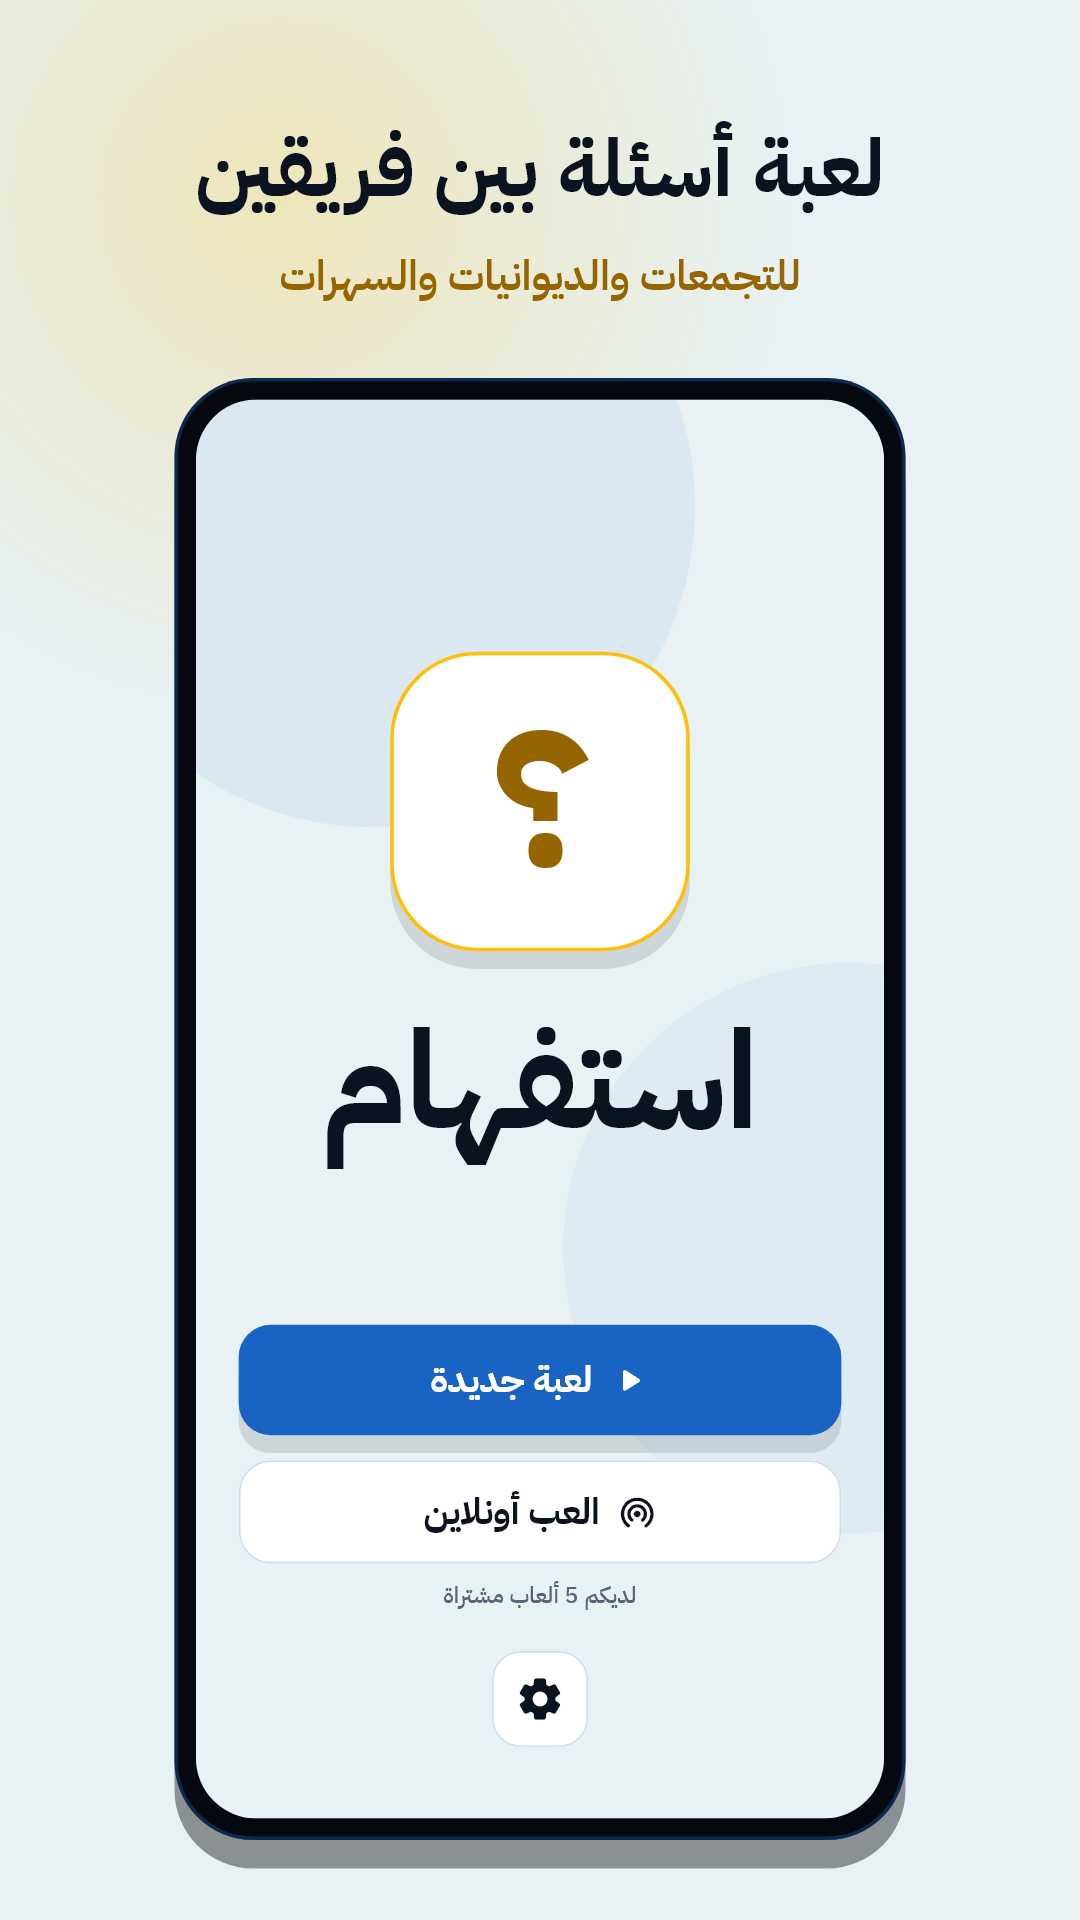
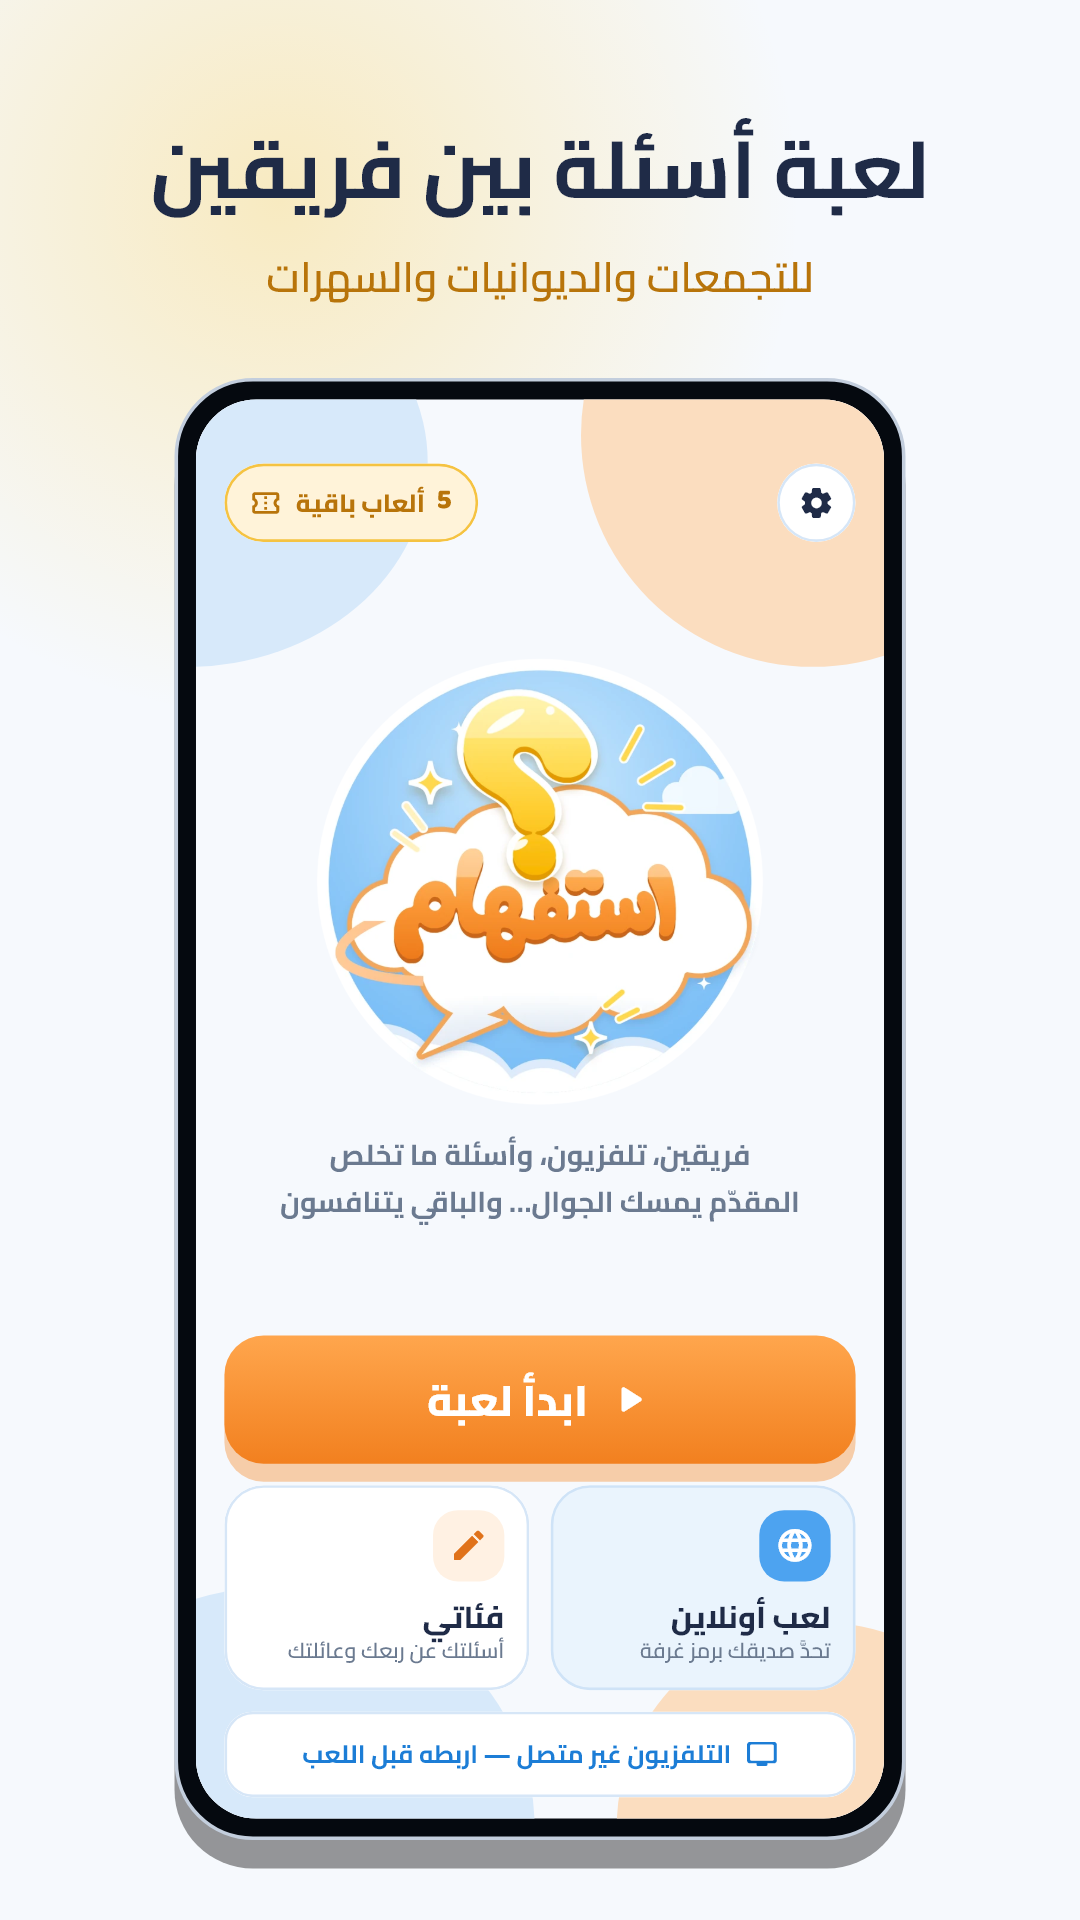
New look for the pages, no name on the waiting screen, long names fit, clock tick

diff --git a/site.css b/site.css
@@ -1,0 +1,78 @@
+/* The look of the game's site, the same as the app and the TV page. */
+@font-face { font-family: Cairo; src: url(fonts/Cairo-Variable.ttf); font-weight: 200 1000; font-display: swap; }
+@font-face { font-family: "Baloo Bhaijaan 2"; src: url(fonts/BalooBhaijaan2-Variable.ttf); font-weight: 400 800; font-display: swap; }
+
+:root {
+  --bg: #F6F9FD; --surface: #FFFFFF; --ink: #1F2B47; --muted: #6B7A90; --border: #D6E6F7;
+  --blue: #1C7DD6; --blue-soft: #EAF4FD; --orange: #F58A2B; --orange-text: #E0721A; --orange-soft: #FFF1E3;
+  --gold: #FFC53D; --gold-soft: #FFF3D9;
+}
+* { box-sizing: border-box; }
+html { scroll-behavior: smooth; }
+body { margin: 0; min-height: 100vh; background: var(--bg); color: var(--ink); font: 17px/1.8 Cairo, "Segoe UI", Tahoma, Arial, sans-serif; overflow-x: hidden; position: relative; }
+body::before, body::after { content: ""; position: fixed; z-index: -1; border-radius: 50%; }
+body::before { width: 420px; height: 420px; top: -170px; right: -150px; background: #FBE3CB; }
+body::after { width: 460px; height: 440px; bottom: -220px; left: -170px; background: #D8E9FB; }
+a { color: var(--blue); font-weight: 600; }
+strong { font-weight: 800; }
+
+main { max-width: 760px; margin: 0 auto; padding: 32px 20px 64px; }
+main.wide { max-width: 960px; padding-top: 0; }
+.brand { display: block; width: 96px; height: 96px; object-fit: contain; }
+.hidden { position: absolute; width: 1px; height: 1px; overflow: hidden; clip-path: inset(50%); margin: 0; }
+h1 { font-size: 32px; font-weight: 900; line-height: 1.4; margin: 12px 0 4px; }
+h2 { font-size: 21px; font-weight: 800; color: var(--orange-text); line-height: 1.5; margin: 32px 0 8px; }
+p, li { color: var(--ink); }
+.muted { color: var(--muted); font-size: 15px; }
+ul, ol { padding-inline-start: 22px; }
+.card { background: var(--surface); border: 2px solid var(--border); border-radius: 22px; padding: 6px 20px; }
+section { border-top: 2px solid var(--border); margin-top: 48px; padding-top: 8px; }
+[lang="en"] { direction: ltr; text-align: left; }
+
+/* The home page. */
+nav { display: flex; flex-wrap: wrap; gap: 6px 18px; justify-content: center; padding: 18px 0; font-size: 15px; }
+nav a { color: var(--muted); text-decoration: none; }
+nav a:hover { color: var(--orange-text); }
+.hero { border: 0; margin: 0; text-align: center; padding: 24px 0 8px; }
+.hero img { width: 260px; height: 260px; object-fit: contain; }
+.tagline { color: var(--orange-text); font-size: 21px; font-weight: 800; margin: 0 0 8px; }
+.lead { color: var(--muted); max-width: 640px; margin: 0 auto; }
+main.wide h2 { font-size: 27px; font-weight: 900; color: var(--ink); margin: 56px 0 16px; }
+h2 small { color: var(--muted); font-size: 15px; font-weight: 600; margin-inline-start: 8px; }
+.shots { display: flex; gap: 16px; overflow-x: auto; padding: 4px 2px 16px; scroll-snap-type: x mandatory; scrollbar-color: #C3CEDD transparent; }
+.shots img { height: 460px; width: auto; border-radius: 22px; border: 2px solid var(--border); scroll-snap-align: start; flex: none; }
+.steps { counter-reset: s; list-style: none; padding: 0; margin: 0; display: grid; gap: 12px; }
+.steps li { counter-increment: s; background: var(--surface); border: 2px solid var(--border); border-radius: 22px; padding: 14px 18px; display: flex; gap: 14px; align-items: flex-start; }
+.steps li::before { content: counter(s); flex: none; width: 36px; height: 36px; border-radius: 50%; background: var(--orange); color: #FFFFFF; font: 800 19px/1 "Baloo Bhaijaan 2", Cairo, sans-serif; display: flex; align-items: center; justify-content: center; margin-top: 2px; }
+.grid { display: grid; grid-template-columns: repeat(auto-fit, minmax(240px, 1fr)); gap: 14px; }
+.grid .card { padding: 6px 20px 10px; }
+.grid .card:nth-child(odd) { background: var(--blue-soft); }
+.grid .card:nth-child(even) { background: var(--orange-soft); border-color: #FAD9BB; }
+.card h3 { font-size: 19px; font-weight: 800; margin: 12px 0 4px; }
+.card p { margin: 0 0 6px; }
+.links { display: grid; grid-template-columns: repeat(auto-fit, minmax(200px, 1fr)); gap: 12px; }
+.links a { display: block; background: var(--surface); border: 2px solid var(--border); border-radius: 22px; padding: 14px 18px; text-decoration: none; color: var(--ink); font-weight: 800; }
+.links a span { display: block; color: var(--muted); font-weight: 400; font-size: 14px; }
+.links a:hover { border-color: var(--orange); }
+.online { display: flex; gap: 20px; align-items: flex-start; }
+.online img { height: 420px; width: auto; border-radius: 22px; border: 2px solid var(--border); flex: none; }
+.online .steps { flex: 1; }
+footer { text-align: center; color: var(--muted); font-size: 14px; margin-top: 56px; }
+@media (max-width: 700px) { .online { flex-direction: column; align-items: center; } .online img { height: 380px; } }
+@media (max-width: 600px) { .hero img { width: 210px; height: 210px; } .shots img { height: 380px; } }
+
+/* The download page. */
+body.get { display: flex; align-items: center; justify-content: center; }
+.get main { text-align: center; padding: 32px 16px; }
+.get .brand { width: 220px; height: 220px; margin: 0 auto 12px; }
+.get p { color: var(--muted); margin: 4px 0 28px; }
+.stores { display: flex; gap: 12px; justify-content: center; flex-wrap: wrap; }
+.stores a { background: var(--orange); color: #FFFFFF; text-decoration: none; font-weight: 800; padding: 12px 28px; border-radius: 999px; direction: ltr; }
+
+/* The credits page. */
+main.credits { max-width: 960px; }
+.wrap { overflow-x: auto; background: var(--surface); border: 2px solid var(--border); border-radius: 22px; margin-top: 20px; }
+table { border-collapse: collapse; width: 100%; font-size: 14px; }
+th, td { text-align: start; padding: 8px 12px; border-bottom: 1px solid var(--border); vertical-align: top; }
+th { color: var(--orange-text); font-weight: 800; }
+td:last-child { direction: ltr; text-align: left; word-break: break-all; }

diff --git a/home.html b/home.html
@@ -6,46 +6,10 @@
 <title>استفهام — لعبة أسئلة للديوانيات واليمعات</title>
 <meta name="description" content="استفهام: لعبة أسئلة جماعية بين فريقين للديوانيات واليمعات، وتحدٍّ أونلاين بين جوالين. فئات كثيرة وآلاف الأسئلة، والنتيجة على شاشة التلفزيون.">
 <link rel="icon" href="icon.png">
-<style>
-  :root { --bg: #E8F2F4; --surface: #FFFFFF; --cream: #0B1220; --muted: #55657A; --gold: #1963C2; --border: rgba(25,99,194,.18); }
-  * { box-sizing: border-box; }
-  html { scroll-behavior: smooth; }
-  body { margin: 0; background: var(--bg); color: var(--cream); font: 17px/1.8 "Segoe UI", Tahoma, Arial, sans-serif; }
-  a { color: var(--gold); }
-  main { max-width: 960px; margin: 0 auto; padding: 0 20px 64px; }
-  nav { display: flex; flex-wrap: wrap; gap: 6px 18px; justify-content: center; padding: 18px 0; font-size: 15px; }
-  nav a { color: var(--muted); text-decoration: none; }
-  nav a:hover { color: var(--gold); }
-  .hero { text-align: center; padding: 32px 0 8px; }
-  .hero img { width: 120px; height: 120px; border-radius: 28px; }
-  h1 { font-size: 40px; margin: 16px 0 4px; }
-  .tagline { color: var(--gold); font-size: 20px; font-weight: 600; margin: 0 0 8px; }
-  .lead { color: var(--muted); max-width: 640px; margin: 0 auto; }
-  h2 { font-size: 26px; margin: 56px 0 16px; }
-  h2 small { color: var(--muted); font-size: 15px; font-weight: 400; margin-inline-start: 8px; }
-  .shots { display: flex; gap: 16px; overflow-x: auto; padding: 4px 2px 16px; scroll-snap-type: x mandatory; scrollbar-color: rgba(25,99,194,.35) transparent; }
-  .shots img { height: 460px; width: auto; border-radius: 20px; border: 1px solid var(--border); scroll-snap-align: start; flex: none; }
-  .steps { counter-reset: s; list-style: none; padding: 0; margin: 0; display: grid; gap: 12px; }
-  .steps li { counter-increment: s; background: var(--surface); border: 1px solid var(--border); border-radius: 16px; padding: 14px 18px 14px 18px; display: flex; gap: 14px; align-items: flex-start; }
-  .steps li::before { content: counter(s); flex: none; width: 34px; height: 34px; border-radius: 50%; background: var(--gold); color: var(--bg); font-weight: 700; display: flex; align-items: center; justify-content: center; margin-top: 2px; }
-  .grid { display: grid; grid-template-columns: repeat(auto-fit, minmax(240px, 1fr)); gap: 14px; }
-  .card { background: var(--surface); border: 1px solid var(--border); border-radius: 16px; padding: 6px 20px 10px; }
-  .card h3 { color: var(--gold); font-size: 18px; margin: 12px 0 4px; }
-  .card p { margin: 0 0 6px; color: var(--cream); }
-  .links { display: grid; grid-template-columns: repeat(auto-fit, minmax(200px, 1fr)); gap: 12px; }
-  .links a { display: block; background: var(--surface); border: 1px solid var(--border); border-radius: 14px; padding: 14px 18px; text-decoration: none; color: var(--cream); font-weight: 600; }
-  .links a span { display: block; color: var(--muted); font-weight: 400; font-size: 14px; }
-  .links a:hover { border-color: rgba(25,99,194,.35); }
-  .online { display: flex; gap: 20px; align-items: flex-start; }
-  .online img { height: 420px; width: auto; border-radius: 20px; border: 1px solid var(--border); flex: none; }
-  .online .steps { flex: 1; }
-  @media (max-width: 700px) { .online { flex-direction: column; align-items: center; } .online img { height: 380px; } }
-  footer { text-align: center; color: var(--muted); font-size: 14px; margin-top: 56px; }
-  @media (max-width: 600px) { h1 { font-size: 32px; } .shots img { height: 380px; } }
-</style>
+<link rel="stylesheet" href="site.css">
 </head>
 <body>
-<main>
+<main class="wide">
   <nav>
     <a href="#shots">صور اللعبة</a>
     <a href="#play">طريقة اللعب</a>
@@ -57,8 +21,8 @@
   </nav>
 
   <section class="hero">
-    <img src="icon.png" alt="أيقونة استفهام">
-    <h1>استفهام</h1>
+    <img src="brand/logo.webp" alt="استفهام">
+    <h1 class="hidden">استفهام</h1>
     <p class="tagline">لعبة أسئلة بين فريقين للديوانيات واليمعات</p>
     <p class="lead">واحد يمسك الجوال ويقدّم، والفريقان يتنافسون على النقاط، والنتيجة تظهر على شاشة التلفزيون. فئات كثيرة وآلاف الأسئلة، وأول لعبة مجاناً.</p>
   </section>

diff --git a/index.html b/index.html
@@ -266,9 +266,8 @@
   }
 
   function idle() {
-    return '<div class="screen center">' + logo() +
-      '<h1 style="margin-top:24px">استفهام</h1>' +
-      '<div class="muted" style="font-size:40px;font-weight:700;margin-top:12px">بانتظار بدء اللعبة</div></div>';
+    return '<div class="screen center">' + logo().replace('class="logo"', 'class="logo" style="width:480px;height:480px"') +
+      '<div class="muted" style="font-size:40px;font-weight:700;margin-top:24px">بانتظار بدء اللعبة</div></div>';
   }
 
   // The whole catalog, so the room chooses together: the columns that give
@@ -517,6 +516,12 @@
   // Long names shrink until they fit their box (down to a limit): a team
   // name in its card (then it ends in «…»), and a category name on top of
   // its column. A long question or answer shrinks until its box holds it.
+  // Text centred in its box overflows on both sides, which scrollHeight misses.
+  function lineCount(el) {
+    var range = document.createRange();
+    range.selectNodeContents(el);
+    return range.getClientRects().length;
+  }
   function fitNames() {
     var names = stage.querySelectorAll('.tname, .cat .name, .catpill .name, .result .name, .ctile .name, .whose span');
     for (var i = 0; i < names.length; i++) {
@@ -524,8 +529,14 @@
       // Cairo's letters are taller than their line, so height is only checked
       // on the category names, which may take two lines.
       var cls = el.parentNode.className, tile = cls.indexOf('ctile') === 0, twoLines = cls === 'cat' || tile;
-      while ((el.scrollWidth > el.clientWidth || (twoLines && el.scrollHeight > size * 3.2)) && size > (tile ? 18 : 22)) {
-        el.style.fontSize = (size -= 2) + 'px';
+      while ((el.scrollWidth > el.clientWidth || (twoLines && el.scrollHeight > size * 3.2) || (tile && lineCount(el) > 2)) &&
+          size > (tile ? 19 : 22)) {
+        el.style.fontSize = (size -= 1) + 'px';
+      }
+      // Still too long to read in two lines: three, with a smaller picture.
+      if (tile && lineCount(el) > 2) {
+        var pic = el.parentNode.querySelector('.catimg');
+        if (pic) pic.style.width = pic.style.height = '36%';
       }
     }
     var box = stage.querySelector('.fitbox');

diff --git a/delete-account.html b/delete-account.html
@@ -4,26 +4,11 @@
 <meta charset="utf-8">
 <meta name="viewport" content="width=device-width, initial-scale=1">
 <title>استفهام — حذف الحساب</title>
-<style>
-  :root { --bg: #E8F2F4; --surface: #FFFFFF; --cream: #0B1220; --muted: #55657A; --gold: #1963C2; --border: rgba(25,99,194,.18); }
-  * { box-sizing: border-box; }
-  body { margin: 0; background: var(--bg); color: var(--cream); font: 17px/1.8 "Segoe UI", Tahoma, Arial, sans-serif; }
-  main { max-width: 760px; margin: 0 auto; padding: 40px 20px 64px; }
-  .brand { width: 64px; height: 64px; border-radius: 18px; background: #FFFFFF; border: 2px solid #FFBE0C;
-    color: #946500; font-size: 40px; font-weight: 700; display: flex; align-items: center; justify-content: center; }
-  h1 { font-size: 30px; margin: 20px 0 4px; }
-  h2 { font-size: 20px; color: var(--gold); margin: 32px 0 8px; }
-  .muted { color: var(--muted); font-size: 15px; }
-  .card { background: var(--surface); border: 1px solid var(--border); border-radius: 16px; padding: 4px 20px; }
-  section { border-top: 1px solid var(--border); margin-top: 48px; padding-top: 8px; }
-  ul, ol { padding-inline-start: 22px; }
-  a { color: var(--gold); }
-  [lang="en"] { direction: ltr; text-align: left; }
-</style>
+<link rel="stylesheet" href="site.css">
 </head>
 <body>
 <main>
-  <div class="brand">؟</div>
+  <img class="brand" src="brand/logo.webp" alt="استفهام">
   <h1>حذف الحساب — لعبة «استفهام»</h1>
   <p class="muted">المطوّر: Nasser almajdali · آخر تحديث: 6 أكتوبر 2026</p>
 

diff --git a/credits.html b/credits.html
@@ -5,23 +5,10 @@
 <meta name="viewport" content="width=device-width, initial-scale=1">
 <title>استفهام — حقوق الصور والأصوات</title>
 <link rel="icon" href="icon.png">
-<style>
-  :root { --bg: #E8F2F4; --surface: #FFFFFF; --cream: #0B1220; --muted: #55657A; --gold: #1963C2; --border: rgba(25,99,194,.18); }
-  * { box-sizing: border-box; }
-  body { margin: 0; background: var(--bg); color: var(--cream); font: 16px/1.7 "Segoe UI", Tahoma, Arial, sans-serif; }
-  main { max-width: 960px; margin: 0 auto; padding: 32px 20px 64px; }
-  h1 { font-size: 28px; margin: 0 0 8px; }
-  a { color: var(--gold); }
-  .muted { color: var(--muted); font-size: 15px; }
-  .wrap { overflow-x: auto; border: 1px solid var(--border); border-radius: 14px; margin-top: 20px; }
-  table { border-collapse: collapse; width: 100%; font-size: 14px; }
-  th, td { text-align: start; padding: 8px 12px; border-bottom: 1px solid var(--border); vertical-align: top; }
-  th { background: var(--surface); color: var(--gold); }
-  td:last-child { direction: ltr; text-align: left; word-break: break-all; }
-</style>
+<link rel="stylesheet" href="site.css">
 </head>
 <body>
-<main>
+<main class="credits">
   <p><a href="home.html">→ استفهام</a></p>
   <h1>حقوق الصور والأصوات</h1>
   <p>صور وأصوات الأسئلة من Wikimedia Commons، كل عمل برخصته كما في الجدول. أُعيد تحجيم الصور وضغطها، وقُصّت الأصوات إلى أول 12 ثانية.</p>

diff --git a/support.html b/support.html
@@ -4,26 +4,11 @@
 <meta charset="utf-8">
 <meta name="viewport" content="width=device-width, initial-scale=1">
 <title>استفهام — الدعم</title>
-<style>
-  :root { --bg: #E8F2F4; --surface: #FFFFFF; --cream: #0B1220; --muted: #55657A; --gold: #1963C2; --border: rgba(25,99,194,.18); }
-  * { box-sizing: border-box; }
-  body { margin: 0; background: var(--bg); color: var(--cream); font: 17px/1.8 "Segoe UI", Tahoma, Arial, sans-serif; }
-  main { max-width: 760px; margin: 0 auto; padding: 40px 20px 64px; }
-  .brand { width: 64px; height: 64px; border-radius: 18px; background: #FFFFFF; border: 2px solid #FFBE0C;
-    color: #946500; font-size: 40px; font-weight: 700; display: flex; align-items: center; justify-content: center; }
-  h1 { font-size: 30px; margin: 20px 0 4px; }
-  h2 { font-size: 20px; color: var(--gold); margin: 32px 0 8px; }
-  .muted { color: var(--muted); font-size: 15px; }
-  .card { background: var(--surface); border: 1px solid var(--border); border-radius: 16px; padding: 4px 20px; }
-  section { border-top: 1px solid var(--border); margin-top: 48px; padding-top: 8px; }
-  ul { padding-inline-start: 22px; }
-  a { color: var(--gold); }
-  [lang="en"] { direction: ltr; text-align: left; }
-</style>
+<link rel="stylesheet" href="site.css">
 </head>
 <body>
 <main>
-  <div class="brand">؟</div>
+  <img class="brand" src="brand/logo.webp" alt="استفهام">
   <h1>الدعم — لعبة «استفهام»</h1>
   <p class="muted">المطوّر: Nasser almajdali</p>
 

diff --git a/privacy.html b/privacy.html
@@ -4,26 +4,11 @@
 <meta charset="utf-8">
 <meta name="viewport" content="width=device-width, initial-scale=1">
 <title>استفهام — سياسة الخصوصية</title>
-<style>
-  :root { --bg: #E8F2F4; --surface: #FFFFFF; --cream: #0B1220; --muted: #55657A; --gold: #1963C2; --border: rgba(25,99,194,.18); }
-  * { box-sizing: border-box; }
-  body { margin: 0; background: var(--bg); color: var(--cream); font: 17px/1.8 "Segoe UI", Tahoma, Arial, sans-serif; }
-  main { max-width: 760px; margin: 0 auto; padding: 40px 20px 64px; }
-  .brand { width: 64px; height: 64px; border-radius: 18px; background: #FFFFFF; border: 2px solid #FFBE0C;
-    color: #946500; font-size: 40px; font-weight: 700; display: flex; align-items: center; justify-content: center; }
-  h1 { font-size: 30px; margin: 20px 0 4px; }
-  h2 { font-size: 20px; color: var(--gold); margin: 32px 0 8px; }
-  p, li { color: var(--cream); }
-  .muted { color: var(--muted); font-size: 15px; }
-  section { border-top: 1px solid var(--border); margin-top: 48px; padding-top: 8px; }
-  ul { padding-inline-start: 22px; }
-  a { color: var(--gold); }
-  [lang="en"] { direction: ltr; text-align: left; }
-</style>
+<link rel="stylesheet" href="site.css">
 </head>
 <body>
 <main>
-  <div class="brand">؟</div>
+  <img class="brand" src="brand/logo.webp" alt="استفهام">
   <h1>سياسة الخصوصية — لعبة «استفهام»</h1>
   <p class="muted">آخر تحديث: 29 أكتوبر 2026</p>
 
